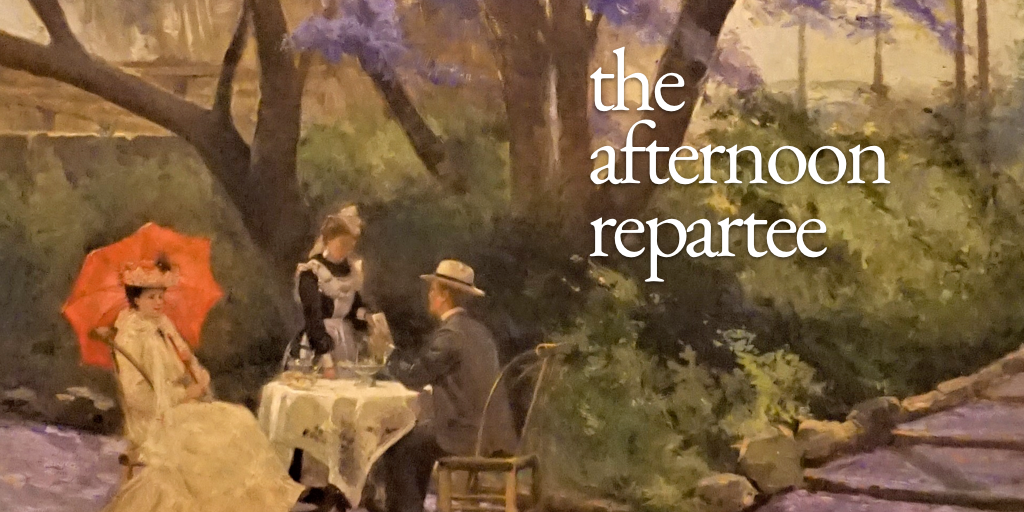
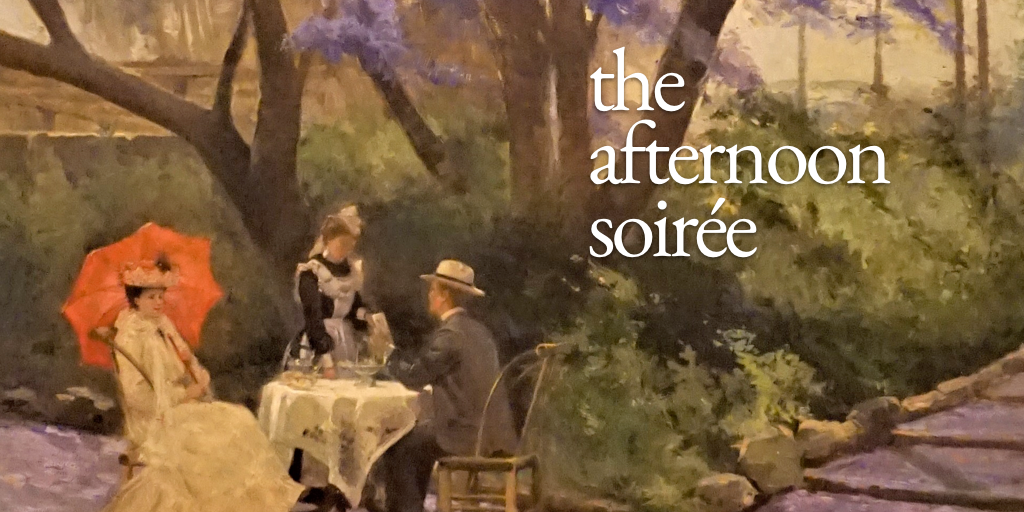
Added consolidated writing page and feed.

Changed region(s): [[0.5625, 0.375, 0.8125, 0.5625]]

diff --git a/writing&blog.html b/writing&blog.html
@@ -1,0 +1,23 @@
+---
+layout: default
+title: "writing & blog"
+---
+
+<div class="content">
+	
+	<h1>Writing & Blog</h1>
+	Considering I have, for a while at least, maintained two separate sections for short and long form writing, I thought it best to at least have one page that links to both.
+	
+	Of course, this also means that the old legacy 2-feed system is still in place for those who are subscribed to either (or preferably both!) of them. Although if you like, you can also subscribe to the consolidated feed <a href="/feed.xml">here</a>.
+	
+	
+	<h2>Overflowing Thoughts <em>(short form writing)</em></h2>
+	<a href="/blog"><img src="/assets/images/banner-blog.png" class="banner-image"></a>
+	
+	<br><br><br>
+	
+	<h2>The Afternoon Soirée <em>(long form writing)</em></h2>
+	<a href="/writing"><img src="/assets/images/banner-writing.png" class="banner-image"></a>
+	
+	
+</div>

diff --git a/_includes/nav.html b/_includes/nav.html
@@ -5,8 +5,7 @@
 		<a href="/work"><i class="fa fa-briefcase" aria-hidden="true"></i> work</a>
 		<a href="/work/cv"><i class="fa fa-file-text" aria-hidden="true"></i> cv</a>
 		<span class="nav-separator">|</span>
-		<a href="/writing"><i class="fa fa-pencil" aria-hidden="true"></i> writing</a>
-		<a href="/blog"><i class="fa fa-pencil" aria-hidden="true"></i> blog</a>
+		<a href="/writing&blog.html"><i class="fa fa-pencil" aria-hidden="true"></i> writing & blog</a>
 		<span class="nav-separator">|</span>
 		<a href="/friends"><i class="fa fa-address-book" aria-hidden="true"></i> friends</a>
 		<a href="/contact"><i class="fa fa-address-card" aria-hidden="true"></i> contact</a>

diff --git a/writing/archive.html b/writing/archive.html
@@ -4,7 +4,7 @@ title: "writing archive"
 ---
 
 <div class="content archive">
-	<h1>Previously on <i>The Afternoon Repartee</i>...</h1>
+	<h1>Previously on <i>The Afternoon Soirée</i>...</h1>
 	
 	{% assign writing = site.writing | sort: 'date' | reverse | where_exp: "item", "item.title != page.title"  %}
 	<div class="list">

diff --git a/writing/index.html b/writing/index.html
@@ -4,7 +4,7 @@ title: "writing"
 
 banner: /assets/images/banner-writing.png
 banner_license: "Joyofmuseums, CC BY-SA 4.0, via Wikimedia Commons"
-page_title: "The Afternoon Repartee"
+page_title: "The Afternoon Soirée"
 page_subtitle: "Musings and things, maybe."
 
 list_type: writing
